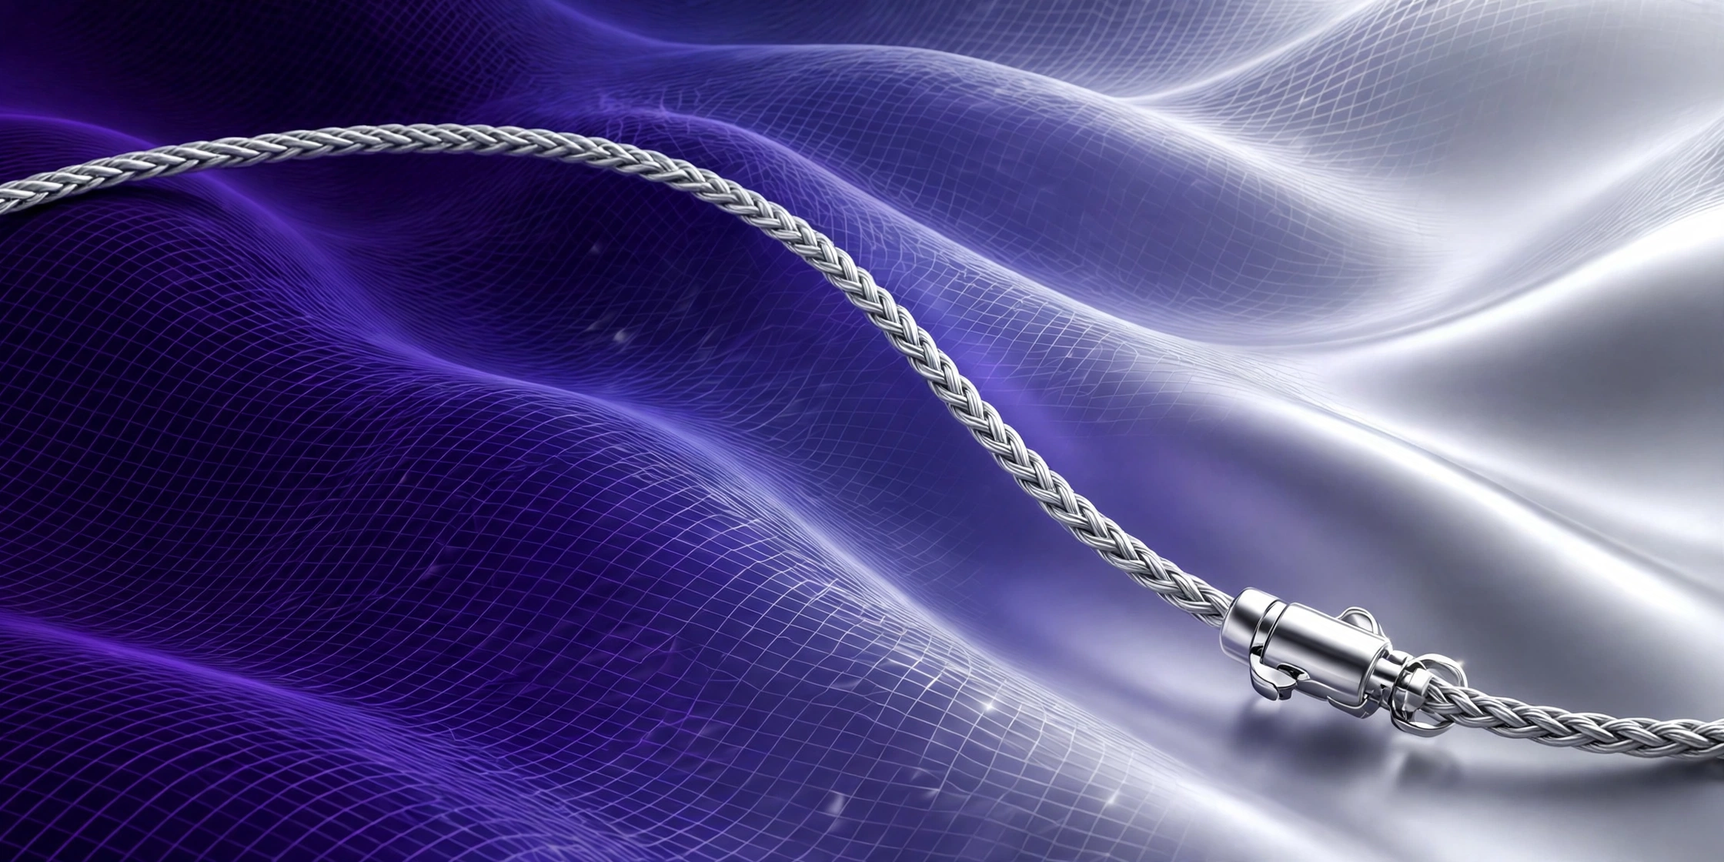
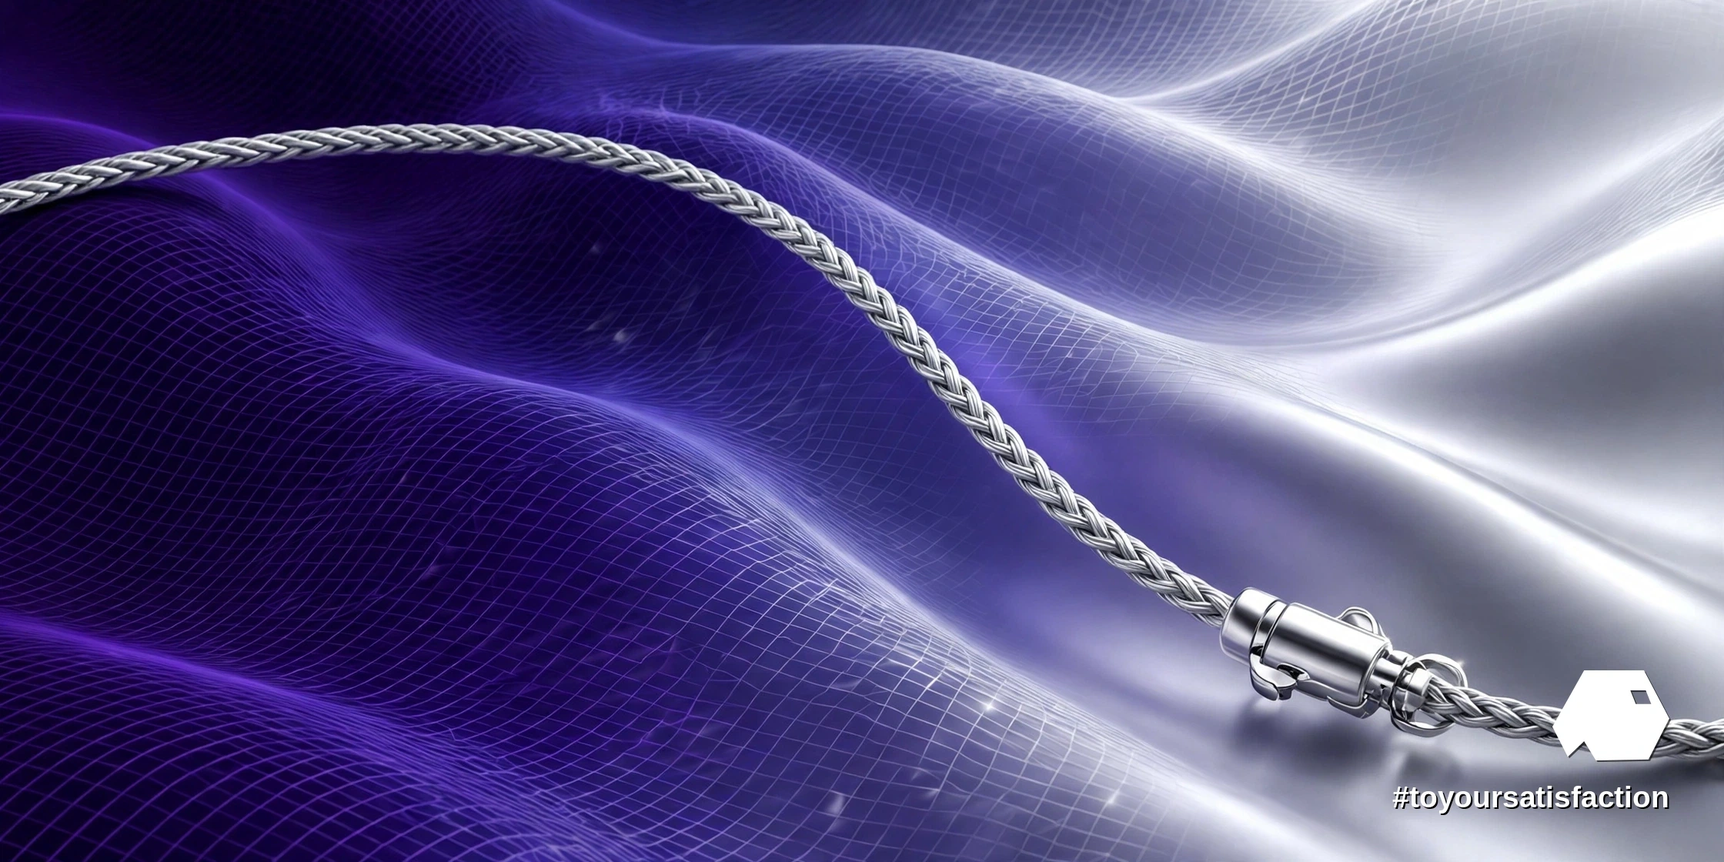
Magazine edition — batch 3

Changed region(s): [[0.8125, 0.7812, 0.9688, 0.9375]]

diff --git a/articles/trusted-agents-short-leash/index.html b/articles/trusted-agents-short-leash/index.html
@@ -5,42 +5,82 @@
 <meta name="viewport" content="width=device-width, initial-scale=1">
 <meta http-equiv="Content-Security-Policy" content="default-src 'self'; script-src 'self' 'unsafe-inline'; style-src 'self' 'unsafe-inline'; img-src 'self' data:; connect-src 'self' https://api.mymemory.translated.net; object-src 'none'; base-uri 'self'">
 <title>Trusted, Used Daily — and Kept on a Short Leash — Ovia Inc</title>
-<meta name="description" content="G2's “Stop Selling Autonomy” reads 3,222 enterprise reviews across 231 AI agent products: 77% of reviewers trust their agent, only 7% would grant total autonomy, and 79% ask for visibility and control before better reliability. The market buys supervision, not autonomy.">
+<meta name="description" content="G2 read 3,222 enterprise reviews across 231 AI agent products: 77 percent trust the agent in use, only 7 percent would grant total autonomy, and 79 percent ask for visibility and control first.">
 <meta property="og:type" content="article">
 <meta property="og:title" content="Trusted, Used Daily — and Kept on a Short Leash">
-<meta property="og:description" content="G2's “Stop Selling Autonomy” reads 3,222 enterprise reviews across 231 AI agent products: 77% of reviewers trust their agent, only 7% would grant total autonomy, and 79% ask for visibility and control before better reliability. The market buys supervision, not autonomy.">
+<meta property="og:description" content="G2 read 3,222 enterprise reviews across 231 AI agent products: 77 percent trust the agent in use, only 7 percent would grant total autonomy, and 79 percent ask for visibility and control first.">
 <meta property="og:url" content="https://oviainc.github.io/ai-services/articles/trusted-agents-short-leash/">
 <meta property="og:image" content="https://oviainc.github.io/ai-services/articles/trusted-agents-short-leash/ovia-inc-trusted-agents-short-leash-hero.webp">
 <meta name="twitter:card" content="summary_large_image">
 <style>
-  :root{--bg:#0A0E14;--accent:#2E9BD6;--text:#FFFFFF;--muted:#B9C4CE;}
+  :root{--bg:#0A0E14;--panel:#101823;--text:#FFFFFF;--muted:#B9C4CE;--line:#22303E;--accent:#8B7FE8;}
   *{box-sizing:border-box;margin:0;padding:0;}
-  body{background:var(--bg);color:var(--text);font-family:-apple-system,BlinkMacSystemFont,"Segoe UI",Roboto,Helvetica,Arial,sans-serif;line-height:1.65;}
-  main{max-width:760px;margin:0 auto;padding:32px 20px 48px;}
-  .langbar{display:flex;justify-content:flex-end;align-items:center;gap:10px;margin-bottom:18px;}
-  .langbar label{color:var(--muted);font-size:.85rem;letter-spacing:.08em;text-transform:uppercase;}
-  .langbar select{background:#101823;color:var(--text);border:1px solid #1E2A36;border-radius:8px;padding:6px 10px;font-size:.95rem;max-width:60vw;}
-  .kicker{color:var(--accent);font-size:.85rem;letter-spacing:.18em;text-transform:uppercase;margin-bottom:14px;}
-  h1{font-size:2rem;line-height:1.25;margin-bottom:20px;font-weight:700;}
-  h2{font-size:1.3rem;line-height:1.35;margin:28px 0 12px;font-weight:700;color:var(--accent);}
-  img.hero{width:100%;height:auto;border-radius:10px;display:block;margin-bottom:28px;}
-  p{margin-bottom:16px;color:var(--text);}
-  p.tags{color:var(--accent);font-size:.95rem;}
-  ul.refs{list-style:none;margin-bottom:16px;}
-  ul.refs li{margin-bottom:10px;color:var(--muted);font-size:.95rem;}
+  body{background:var(--bg);color:var(--text);font-family:Georgia,'Times New Roman',Times,serif;line-height:1.6;}
+  a{color:var(--accent);}
+  .sans{font-family:-apple-system,BlinkMacSystemFont,"Segoe UI",Roboto,Helvetica,Arial,sans-serif;}
+  /* masthead zone over the article background image */
+  .mastzone{position:relative;overflow:hidden;border-bottom:1px solid var(--line);}
+  .mast-bg{position:absolute;inset:0;background-size:cover;background-position:center;opacity:.22;}
+  .mast-shade{position:absolute;inset:0;background:linear-gradient(180deg,rgba(10,14,20,.52),rgba(10,14,20,.94));}
+  .mast-inner{position:relative;max-width:1180px;margin:0 auto;padding:24px 22px 42px;}
+  .masthead{display:flex;align-items:center;gap:16px;flex-wrap:wrap;}
+  .masthead a.logo{display:block;line-height:0;}
+  .masthead img.logo{height:46px;width:auto;display:block;}
+  .wordmark{font-family:-apple-system,BlinkMacSystemFont,"Segoe UI",Roboto,Helvetica,Arial,sans-serif;letter-spacing:.34em;font-size:13px;text-transform:uppercase;color:var(--text);}
+  .langbar{display:flex;align-items:center;gap:10px;margin-left:auto;}
+  .langbar label{color:var(--muted);font-size:.8rem;letter-spacing:.08em;text-transform:uppercase;font-family:-apple-system,BlinkMacSystemFont,"Segoe UI",Roboto,Helvetica,Arial,sans-serif;}
+  .langbar select{background:#101823;color:var(--text);border:1px solid var(--line);border-radius:8px;padding:6px 10px;font-size:.95rem;max-width:52vw;}
+  .kicker{color:var(--accent);font-size:.85rem;letter-spacing:.3em;text-transform:uppercase;margin:44px 0 16px;font-family:-apple-system,BlinkMacSystemFont,"Segoe UI",Roboto,Helvetica,Arial,sans-serif;}
+  h1.display{font-family:"Arial Narrow Bold","Franklin Gothic Medium",Impact,Haettenschweiler,"Helvetica Neue Condensed Bold",sans-serif;text-transform:uppercase;font-weight:700;font-size:clamp(2.5rem,6.4vw,4.7rem);line-height:.99;letter-spacing:.004em;max-width:1020px;}
+  .standfirst{font-size:clamp(1.12rem,2.3vw,1.42rem);font-style:italic;color:var(--muted);max-width:780px;line-height:1.5;margin-top:18px;}
+  .byline{font-family:-apple-system,BlinkMacSystemFont,"Segoe UI",Roboto,Helvetica,Arial,sans-serif;font-size:.74rem;letter-spacing:.2em;text-transform:uppercase;color:var(--muted);border-top:1px solid var(--line);margin-top:24px;padding-top:14px;}
+  /* hero */
+  .hero-zone{max-width:1180px;margin:34px auto 0;padding:0 22px;}
+  figure.hero img{width:100%;height:auto;display:block;border-radius:2px;}
+  figcaption{font-family:-apple-system,BlinkMacSystemFont,"Segoe UI",Roboto,Helvetica,Arial,sans-serif;font-size:.78rem;color:var(--muted);padding-top:8px;letter-spacing:.03em;}
+  /* body columns */
+  main{max-width:1180px;margin:0 auto;padding:6px 22px 30px;}
+  .cols{margin-top:30px;font-size:1.16rem;line-height:1.75;}
+  @media (min-width:1020px){.cols{column-count:2;column-gap:54px;}}
+  .cols p{margin:0 0 20px;}
+  .cols p.first::first-letter{font-family:"Arial Narrow Bold","Franklin Gothic Medium",Impact,sans-serif;font-size:5.4rem;line-height:.78;float:left;padding:.55rem .9rem 0 0;color:var(--accent);font-weight:700;}
+  h2.sec{font-family:-apple-system,BlinkMacSystemFont,"Segoe UI",Roboto,Helvetica,Arial,sans-serif;font-size:.88rem;letter-spacing:.26em;text-transform:uppercase;color:var(--accent);margin:36px 0 14px;border-top:2px solid var(--accent);padding-top:14px;break-after:avoid;}
+  h2.sec:first-child{margin-top:0;}
+  blockquote.pull{column-span:all;font-size:clamp(1.55rem,3.6vw,2.35rem);line-height:1.3;font-style:italic;text-align:center;color:var(--accent);margin:42px 0;padding:4px 12px;}
+  figure.body{margin:4px 0 22px;break-inside:avoid;}
+  figure.wide{column-span:all;margin:30px 0 34px;}
+  figure.body img,figure.wide img{width:100%;height:auto;display:block;border-radius:2px;}
+  .keybox{break-inside:avoid;background:var(--panel);border:1px solid var(--line);border-top:3px solid var(--accent);padding:18px 20px 10px;margin:0 0 24px;font-family:-apple-system,BlinkMacSystemFont,"Segoe UI",Roboto,Helvetica,Arial,sans-serif;}
+  .keybox h3{font-size:.78rem;letter-spacing:.24em;text-transform:uppercase;color:var(--accent);margin-bottom:10px;}
+  .keybox li{margin:0 0 9px 18px;font-size:.95rem;line-height:1.5;}
+  /* references + tags + footer */
+  .refs-sec{margin-top:44px;border-top:1px solid var(--line);padding-top:24px;}
+  .refs-sec h2{font-family:-apple-system,BlinkMacSystemFont,"Segoe UI",Roboto,Helvetica,Arial,sans-serif;font-size:.88rem;letter-spacing:.26em;text-transform:uppercase;color:var(--accent);margin-bottom:14px;}
+  ul.refs{list-style:none;}
+  ul.refs li{margin-bottom:10px;color:var(--muted);font-size:.95rem;font-family:-apple-system,BlinkMacSystemFont,"Segoe UI",Roboto,Helvetica,Arial,sans-serif;}
   ul.refs a{color:var(--accent);text-decoration:none;word-break:break-all;}
   ul.refs a:hover{text-decoration:underline;}
-  footer{border-top:1px solid #1E2A36;margin-top:36px;padding-top:20px;font-size:.95rem;color:var(--muted);}
+  p.tags{color:var(--accent);font-size:.95rem;margin-top:26px;font-family:-apple-system,BlinkMacSystemFont,"Segoe UI",Roboto,Helvetica,Arial,sans-serif;}
+  footer{border-top:1px solid var(--line);margin-top:38px;padding:22px 0 10px;font-size:.95rem;color:var(--muted);font-family:-apple-system,BlinkMacSystemFont,"Segoe UI",Roboto,Helvetica,Arial,sans-serif;}
+  footer .frow{display:flex;align-items:center;gap:14px;flex-wrap:wrap;}
+  footer img.flogo{height:30px;width:auto;display:block;}
   footer a{color:var(--accent);text-decoration:none;}
   footer a:hover{text-decoration:underline;}
-  @media (max-width:600px){h1{font-size:1.55rem;}main{padding:22px 16px 36px;}}
+  footer .ftag{color:var(--text);letter-spacing:.06em;}
+  @media (max-width:640px){.mast-inner{padding:18px 16px 30px;}main,.hero-zone{padding-left:16px;padding-right:16px;}h1.display{font-size:2.35rem;}.cols{font-size:1.08rem;}}
 </style>
 </head>
 <body>
-<main>
-<div class="langbar">
-          <label for="langPick" data-tr>Language</label>
-          <select id="langPick" aria-label="Choose your language">
+<header class="mastzone">
+  <div class="mast-bg" style="background-image:url('ovia-inc-trusted-agents-short-leash-background.webp')"></div>
+  <div class="mast-shade"></div>
+  <div class="mast-inner">
+    <div class="masthead">
+      <a class="logo" href="../../" aria-label="Ovia Inc — home"><img class="logo" src="../../assets/ovia-inc-logo-white.webp" alt="Ovia Inc — logo"></a>
+      <span class="wordmark">Ovia Inc — Magazine</span>
+      <div class="langbar">
+        <label for="langPick" data-tr>Language</label>
+        <select id="langPick" aria-label="Choose your language">
             <option value="en">English</option>
             <option value="fr">Français</option>
             <option value="es">Español</option>
@@ -118,30 +158,62 @@
             <option value="lo">ລາວ</option>
             <option value="mn">Монгол</option>
           </select>
-        </div>
-  <p class="kicker" data-tr>Ovia Inc — Articles</p>
-  <h1 data-tr>Trusted, Used Daily — and Kept on a Short Leash</h1>
-  <img class="hero" src="ovia-inc-trusted-agents-short-leash-hero.webp" alt="Ovia Inc — A polished silver braided cord held short with a metal clasp, crossing an ultraviolet and silver gradient mesh surface">
-  <h2 data-tr>The study</h2>
-  <p data-tr>G2's “Stop Selling Autonomy” reads the review record instead of running another opinion poll: 3,222 approved enterprise reviews, from companies with more than 1,000 employees, across 231 AI agent products in five categories, published between January 2025 and October 23, 2026. Reviews of this kind carry the texture surveys miss — praise and complaints written after real rollouts, by the people who live with the results. The headline finding is a split: enterprises trust their agents and use them more every quarter, and almost none of them will let an agent act alone.</p>
-  <h2 data-tr>Trust without letting go</h2>
-  <p data-tr>The numbers draw the line precisely. G2 reports that 77% of enterprise reviewers trust their agent quite a bit or very much. Asked how much autonomy that trust buys, the answers tighten: 60% choose autonomy with guardrails, 21% want limited autonomy, 11% want a human approving every action, and only 7% would grant total autonomy. Trust, in other words, answers whether the agent does the job well. Autonomy answers whether anyone checks the work before the work lands — on a customer, a record, or a payment. Buyers keep those two questions separate, and the people carrying the risk hold the line tightest: administrators and executive sponsors grant total autonomy least of all.</p>
-  <h2 data-tr>Visibility beats reliability</h2>
-  <p data-tr>Asked what would raise trust further, 79% of reviewers picked a visibility or control fix — the agent explaining its decisions, more guardrail settings, a warning before a questionable action — while only 21% asked for better reliability. The scoring detail underneath agrees: output accuracy earns top marks far more easily than explanations do. Most buyers already believe the agent usually gets the answer right. What holds trust back is seeing how the answer was reached, and knowing what happens on the steps where the answer is wrong. Oversight has a price, and buyers pay it knowingly: G2's related survey work names the overhead a distrust tax — hours of supervision and rework spent every week because the evidence trail is thinner than the capability.</p>
-  <h2 data-tr>The adoption drag</h2>
-  <p data-tr>Two quieter findings explain why the leash stays short in practice. Setup and complexity form the top complaint in the reviews, named in 25% of dislikes — raised even by reviewers who score their agent nine or ten out of ten. And depth of use is sliding: the average share of intended users who fully adopted their agent fell from 68% in 2024 to 55% in 2026. An agent that is hard to set up, hard to explain and used by barely half the team never earns the organisational confidence that looser autonomy would require. The leash, read this way, is less about fear of the technology and more about unfinished operational work around the technology.</p>
-  <h2 data-tr>What builders should sell instead</h2>
-  <p data-tr>The practical conclusion writes the roadmap for anyone shipping agents. Lead with the leash: guardrails the buyer sets, decisions the agent can explain, warnings before risky steps, and costs that stay visible as they accumulate. Prove one narrow, measurable win first — a back-office task with a human approving the output — and let the leash lengthen as the evidence grows. Business intelligence, data and automation work at Ovia starts from exactly that surface: dashboards, audit trails and approval points are where trust is manufactured. Context engineering at Ovia since December 2022 treats those controls as part of the agent's context, not as packaging around the agent. Autonomy may still be the destination. Supervision is the product being bought on the way there.</p>
-  <h2 data-tr>References</h2>
-  <ul class="refs">
-    <li><span data-tr>G2 — “Stop Selling Autonomy: What 3,222 Enterprise Reviews Say AI Agent Buyers Want”, October 2026:</span> <a href="https://learn.g2.com/ai-agent-adoption-trends-enterprises-2026?hs_amp=true">https://learn.g2.com/ai-agent-adoption-trends-enterprises-2026?hs_amp=true</a></li>
-  </ul>
+      </div>
+    </div>
+    <p class="kicker" data-tr>Ovia Inc — AI Agents · Enterprise Trust and Control</p>
+    <h1 class="display" data-tr>Trusted, Used Daily — and Kept on a Short Leash</h1>
+    <p class="standfirst" data-tr>Buyers keep trust and autonomy as separate questions, and supervision is the product being bought on the way to autonomy.</p>
+    <p class="byline" data-tr>Ovia Inc · Studio and Lab · 6 min read</p>
+  </div>
+</header>
+<div class="hero-zone">
+  <figure class="hero">
+    <img src="ovia-inc-trusted-agents-short-leash-hero.webp" alt="Ovia Inc — A polished silver braided cord held short with a metal clasp, crossing an ultraviolet and silver gradient mesh surface">
+    <figcaption data-tr>A short leash in silver on ultraviolet mesh. Image: Ovia Inc</figcaption>
+  </figure>
+</div>
+<main>
+  <div class="cols">
+<p class="first" data-tr>The market buys supervision, not autonomy. That reading sounds blunt until the numbers sit side by side: enterprise reviewers trust the agents already in daily use, use those agents more every quarter, and still refuse, by a wide margin, to let an agent act alone. Trust and autonomy turn out to be separate questions, answered separately, and the gap between the answers is where the real product work lives.</p>
+<p data-tr>G2's “Stop Selling Autonomy” builds the case from the review record rather than another opinion poll, and the method matters. Reviews written after real rollouts carry praise and complaints in the reviewers' own words, scored against lived results. We read the findings as a builder's brief: the evidence trail, the guardrails and the approval points are not packaging around an agent. Those surfaces are the product being bought.</p>
+<p data-tr>Business intelligence, data and automation work at Ovia starts from exactly that surface, and context engineering at Ovia since December 2022 treats controls as part of an agent's context. Dashboards, audit trails and approval points are where trust is manufactured, one visible decision at a time.</p>
+<aside class="keybox"><h3 data-tr>Key points</h3><ul><li data-tr>G2 read 3,222 enterprise reviews across 231 AI agent products, and 77 percent of reviewers trust the agent in use.</li><li data-tr>Only 7 percent would grant total autonomy, while 60 percent choose autonomy with guardrails.</li><li data-tr>Visibility and control fixes lead the trust wish list at 79 percent, ahead of better reliability at 21 percent.</li><li data-tr>Full adoption slid from 68 percent in 2024 to 55 percent in 2026, and setup complexity leads the complaints.</li></ul></aside>
+<h2 class="sec" data-tr>01 · The study</h2>
+<p data-tr>G2's “Stop Selling Autonomy” reads the review record instead of running another opinion poll: 3,222 approved enterprise reviews, from companies with more than 1,000 employees, across 231 AI agent products in five categories, published between January 2025 and October 23, 2026. Reviews of this kind carry the texture surveys miss — praise and complaints written after real rollouts, by the people who live with the results. The headline finding is a split: enterprises trust their agents and use them more every quarter, and almost none of them will let an agent act alone.</p>
+<p data-tr>Method shapes meaning here. A review is written by someone whose team already chose a product, lived through setup, and decided the experience deserved public words. That record skews toward real operational friction and real earned confidence, and away from hypothetical enthusiasm. Findings drawn from such a record deserve weight precisely because the reviewers paid the supervision cost the findings describe.</p>
+<figure class="body"><img src="ovia-inc-trusted-agents-short-leash-body-1.webp" alt="Ovia Inc — A silver control panel with ultraviolet sliders beside a short silver cord and clasp on a mesh surface"><figcaption data-tr>Guardrail sliders and a short cord: control as a physical surface. Image: Ovia Inc</figcaption></figure>
+<h2 class="sec" data-tr>02 · Trust without letting go</h2>
+<p data-tr>The numbers draw the line precisely. G2 reports that 77% of enterprise reviewers trust their agent quite a bit or very much. Asked how much autonomy that trust buys, the answers tighten: 60% choose autonomy with guardrails, 21% want limited autonomy, 11% want a human approving every action, and only 7% would grant total autonomy. Trust, in other words, answers whether the agent does the job well. Autonomy answers whether anyone checks the work before the work lands — on a customer, a record, or a payment. Buyers keep those two questions separate, and the people carrying the risk hold the line tightest: administrators and executive sponsors grant total autonomy least of all.</p>
+<p data-tr>The pattern reads less as fear and more as accountability. A sponsor who signs for outcomes keeps a hand on the steps where outcomes become hard to reverse. Guardrails, in that light, are not a temporary crutch on the way to trust; guardrails are the form trust takes when money, records and customers are on the line.</p>
+<blockquote class="pull" data-tr>Trust answers whether the agent does the job well; autonomy answers whether anyone checks the work before the work lands.</blockquote>
+<h2 class="sec" data-tr>03 · Visibility beats reliability</h2>
+<p data-tr>Asked what would raise trust further, 79% of reviewers picked a visibility or control fix — the agent explaining its decisions, more guardrail settings, a warning before a questionable action — while only 21% asked for better reliability. The scoring detail underneath agrees: output accuracy earns top marks far more easily than explanations do. Most buyers already believe the agent usually gets the answer right. What holds trust back is seeing how the answer was reached, and knowing what happens on the steps where the answer is wrong. Oversight has a price, and buyers pay it knowingly: G2's related survey work names the overhead a distrust tax — hours of supervision and rework spent every week because the evidence trail is thinner than the capability.</p>
+<figure class="wide"><img src="ovia-inc-trusted-agents-short-leash-body-2.webp" alt="Ovia Inc — A silver checkpoint gate with a check seal and a silver ribbon flowing through, on an ultraviolet mesh field"><figcaption data-tr>A checkpoint every record passes through, with the trail kept visible. Image: Ovia Inc</figcaption></figure>
+<p data-tr>The distrust tax names a design failure, not a user failure. Every hour spent re-checking work that a better trail would have settled is an hour the product charged for missing evidence. Explanations, warnings and visible costs shrink that tax directly, which is why buyers rank visibility ahead of raw reliability gains that arrive without a trail.</p>
+<h2 class="sec" data-tr>04 · The adoption drag</h2>
+<p data-tr>Two quieter findings explain why the leash stays short in practice. Setup and complexity form the top complaint in the reviews, named in 25% of dislikes — raised even by reviewers who score their agent nine or ten out of ten. And depth of use is sliding: the average share of intended users who fully adopted their agent fell from 68% in 2024 to 55% in 2026. An agent that is hard to set up, hard to explain and used by barely half the team never earns the organisational confidence that looser autonomy would require. The leash, read this way, is less about fear of the technology and more about unfinished operational work around the technology.</p>
+<p data-tr>Adoption depth and autonomy connect through evidence. A team where half the intended users never fully adopted the agent has half the shared experience, half the informal knowledge about failure modes, and a thinner basis for widening permissions. Setup quality therefore belongs on the autonomy roadmap, not in a separate onboarding checklist.</p>
+<h2 class="sec" data-tr>05 · What builders should sell instead</h2>
+<p data-tr>The practical conclusion writes the roadmap for anyone shipping agents. Lead with the leash: guardrails the buyer sets, decisions the agent can explain, warnings before risky steps, and costs that stay visible as they accumulate. Prove one narrow, measurable win first — a back-office task with a human approving the output — and let the leash lengthen as the evidence grows. Business intelligence, data and automation work at Ovia starts from exactly that surface: dashboards, audit trails and approval points are where trust is manufactured. Context engineering at Ovia since December 2022 treats those controls as part of the agent's context, not as packaging around the agent. Autonomy may still be the destination. Supervision is the product being bought on the way there.</p>
+<p data-tr>We would ship in that order every time: one narrow win, a visible trail, guardrails the buyer controls, and permissions that widen only as the record earns the widening. The leash is not the opposite of progress. The leash, kept short and lengthened on evidence, is how progress survives contact with real operations.</p>
+
+  </div>
+  <div class="refs-sec">
+    <h2 data-tr>References</h2>
+    <ul class="refs">
+<li><span data-tr>G2 — “Stop Selling Autonomy: What 3,222 Enterprise Reviews Say AI Agent Buyers Want”, October 2026:</span> <a href="https://learn.g2.com/ai-agent-adoption-trends-enterprises-2026?hs_amp=true">https://learn.g2.com/ai-agent-adoption-trends-enterprises-2026?hs_amp=true</a></li>
+
+    </ul>
+  </div>
   <p class="tags">#AIAgents #BusinessIntelligence #Automation #toyoursatisfaction</p>
   <footer>
-    <p><a href="../../">Ovia Inc</a> · Source on GitHub: <a href="https://github.com/Oviainc/ai-services">github.com/Oviainc/ai-services</a></p>
+    <div class="frow">
+      <a href="../../" aria-label="Ovia Inc — home"><img class="flogo" src="../../assets/ovia-inc-logo-white.webp" alt="Ovia Inc — logo"></a>
+      <span><a href="../../">Ovia Inc</a> · <span data-tr>Source on GitHub:</span> <a href="https://github.com/Oviainc/ai-services">github.com/Oviainc/ai-services</a></span>
+      <span class="ftag">#toyoursatisfaction</span>
+    </div>
   </footer>
 </main>
-
 <script>
 (function () {
   "use strict";
@@ -303,6 +375,5 @@
   }
 })();
 </script>
-
 </body>
 </html>
